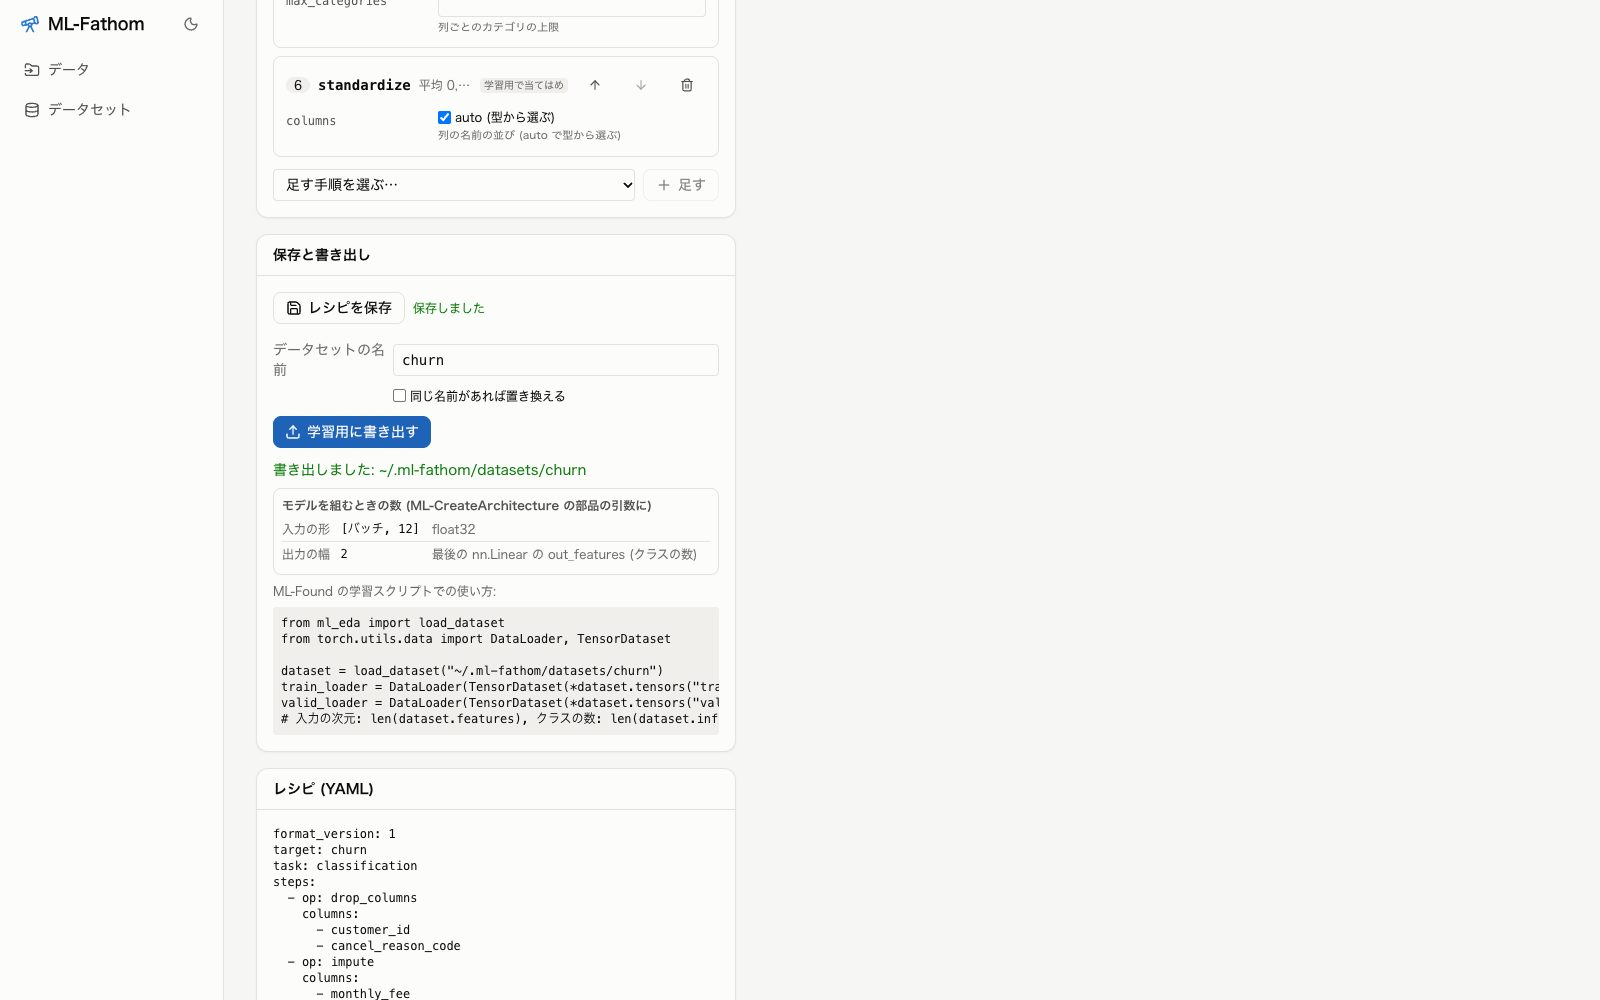
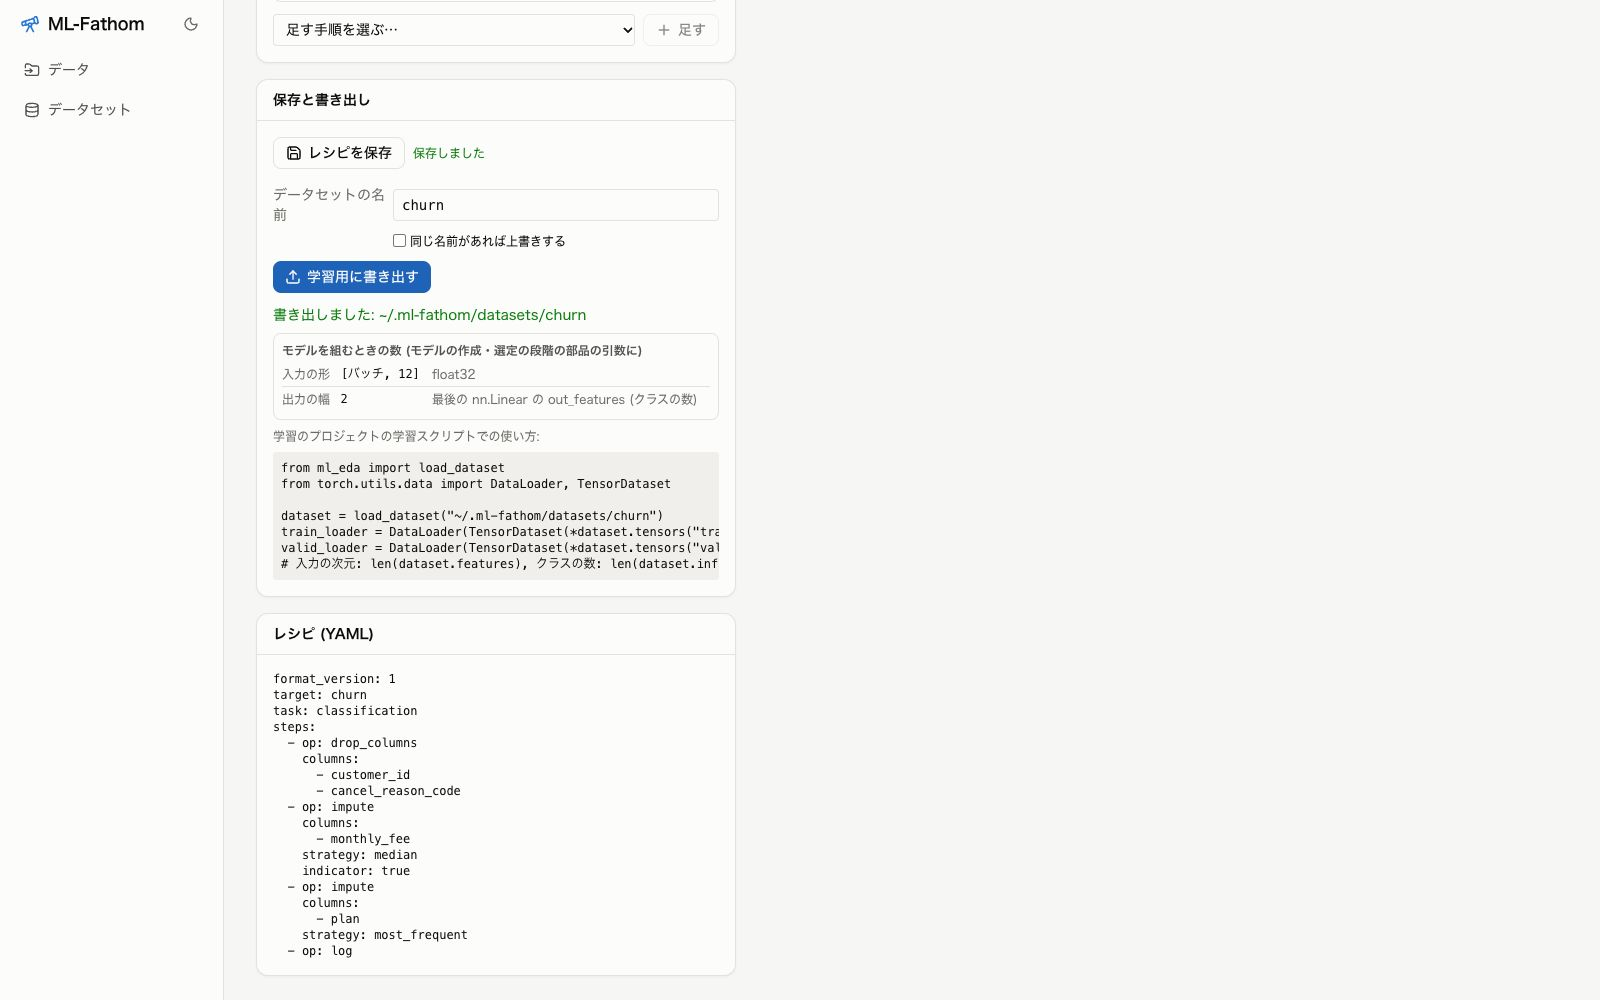
README と操作ガイドの画面の例を今の画面で撮り直す (#153)
* README と操作ガイドの画面の例を今の画面で撮り直す

* README の画面の例の alt を写っているものに合わせる

---------

Changed region(s): [[0.1562, 0.0, 0.4688, 1.0]]

diff --git a/README.md b/README.md
@@ -17,7 +17,7 @@
   </tr>
   <tr>
     <td><img src="docs/images/pointcloud.png" alt="点群の中身: 1 件ずつの点群を 3D で回して見る"></td>
-    <td><img src="docs/images/recipe.png" alt="問題から始めた前処理と書き出し: 問題との食い違い, 決めてほしいこと, 手順の前と後の表, 分割ごとの行数"></td>
+    <td><img src="docs/images/recipe.png" alt="問題から始めた前処理と書き出し: 問題のカード (問題との食い違いは無し) と問題に書き戻すボタン, 目的の列とほぼ同じ列を落とすかを聞く決めてほしいこと, 手順の前と後の表, 分割ごとの行数"></td>
   </tr>
   <tr>
     <td colspan="2" align="center"><img src="docs/images/pairs.png" width="50%" alt="ファイルの組の書き出し: 問題の値で埋めた画像と領域のディレクトリと分割を確かめ, 学習のプロジェクトへ書き出す"></td>

diff --git a/docs/GUIDE.md b/docs/GUIDE.md
@@ -176,7 +176,7 @@ make serve
 
 - [ ] 「レシピを保存」を押す (「保存しました」と出る). 保存しないで他のタブに移っても, 作りかけの手順は残る
 - [ ] 「データセットの名前」に `churn` と入れて「学習用に書き出す」を押す
-- [ ] 「書き出しました: ~/.ml-fathom/datasets/churn」と, ML-Found の学習スクリプトで読み込む例が出る
+- [ ] 「書き出しました: ~/.ml-fathom/datasets/churn」と, モデルを組むときの数と, 学習のプロジェクトの学習スクリプトで読み込む例が出る
 - [ ] 左の「データセット」を開くと, 書き出したデータセット (種類とタスク, 目的の列, 学習に使う列, 分割, 場所, 作った時刻) が並ぶ
 
 ![書き出した後](images/guide/export.jpg)

diff --git a/TODO.md b/TODO.md
@@ -13,11 +13,7 @@
 
 ## 優先度 中
 
-### 画面の言葉を変えた画面の例を撮り直す
-- 何を: README と docs/GUIDE.md の画像のうち, 文を変えた所 (「問題から始める」, 「学習のプロジェクトへ書き出す」, 「データを登録」, 「問題」のカード, データの一覧の見出し「データの分析」など) が写るものを `frontend/e2e/shots.mts` で撮り直す
-- なぜ: 画像の文と画面の文が違うと, ガイドの通りに探せないため
-- 終わりの条件: 画像に古い言葉 (「問題の設定から始める」, 「プロジェクトへ書き出す」, 「データを追加」など) が写っていない
-- つながり: 無し
+無し
 
 ## 優先度 低
 
